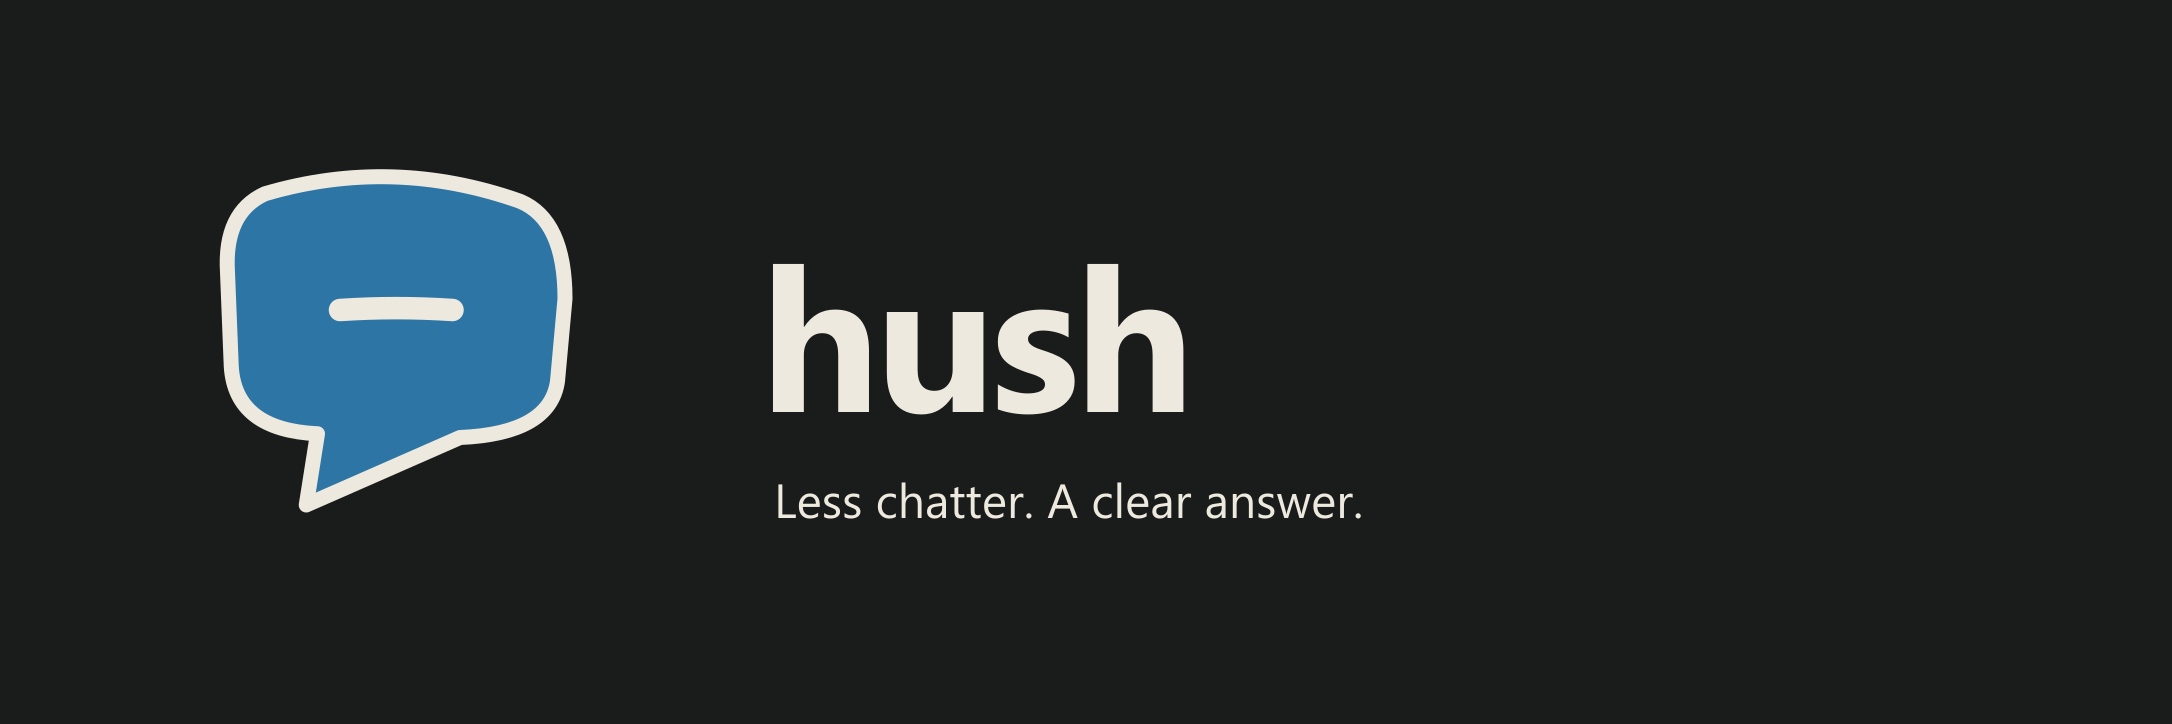
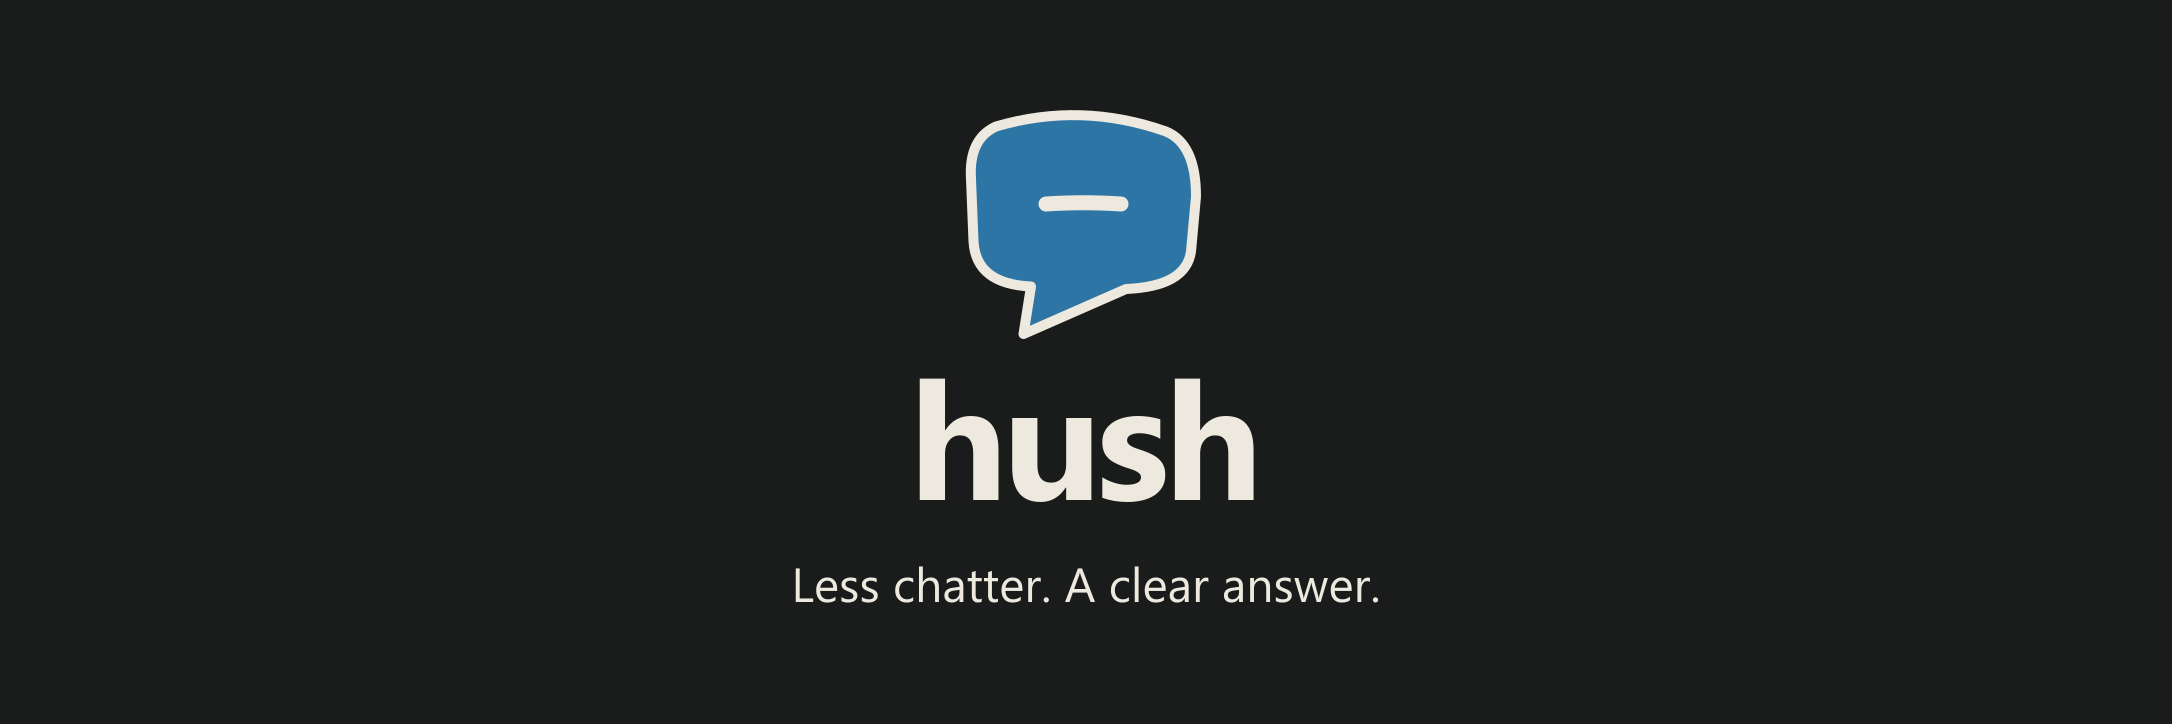
docs: center README branding and edition navigation

Changed region(s): [[0.3393, 0.1519, 0.6169, 0.7293], [0.0925, 0.2127, 0.2776, 0.6989], [0.3702, 0.7901, 0.6478, 0.8508]]

diff --git a/README.md b/README.md
@@ -8,11 +8,18 @@
   <p><strong>You asked for a change. Read what changed.</strong></p>
 </div>
 
+<p align="center"><strong>Available on</strong></p>
+<p align="center">
+  <img src="assets/edition-codex.svg" alt="Codex" width="80" height="80" />&emsp;&emsp;<a href="https://github.com/V-Songbird/hush/tree/Claude"><img src="assets/edition-claude.svg" alt="Claude" width="80" height="80" /></a><br />
+  <del>Codex</del>&emsp;&emsp;&emsp;&emsp;<a href="https://github.com/V-Songbird/hush/tree/Claude">Claude</a>
+</p>
+<p align="center"><small>Codex is not currently installable.</small></p>
+
 <!-- foundry:platform identity -->
-**Edition: Codex.** In development; not available to install.
+<p align="center"><strong>Edition: Codex.</strong> In development; not available to install.</p>
 <!-- /foundry:platform identity -->
 
-[Install](#install) · [Using Hush](#what-you-can-do) · [Evidence](#the-numbers) · [Limits](#good-to-know)
+<p align="center"><a href="#install"><strong>Get started</strong></a> · <a href="#what-is-this">What is this?</a> · <a href="#how-it-works">How it works</a> · <a href="#what-you-can-do">What you can do</a> · <a href="#the-numbers">Evidence</a></p>
 
 ## What is this?
 
